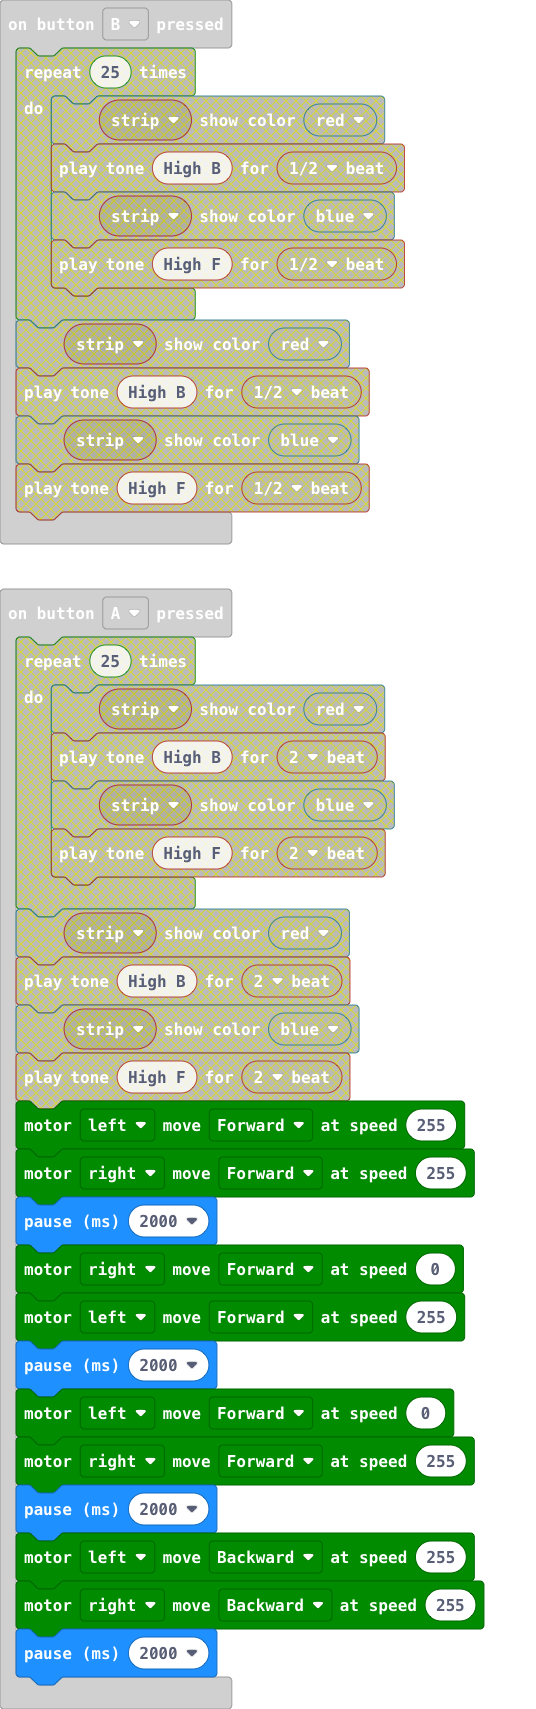
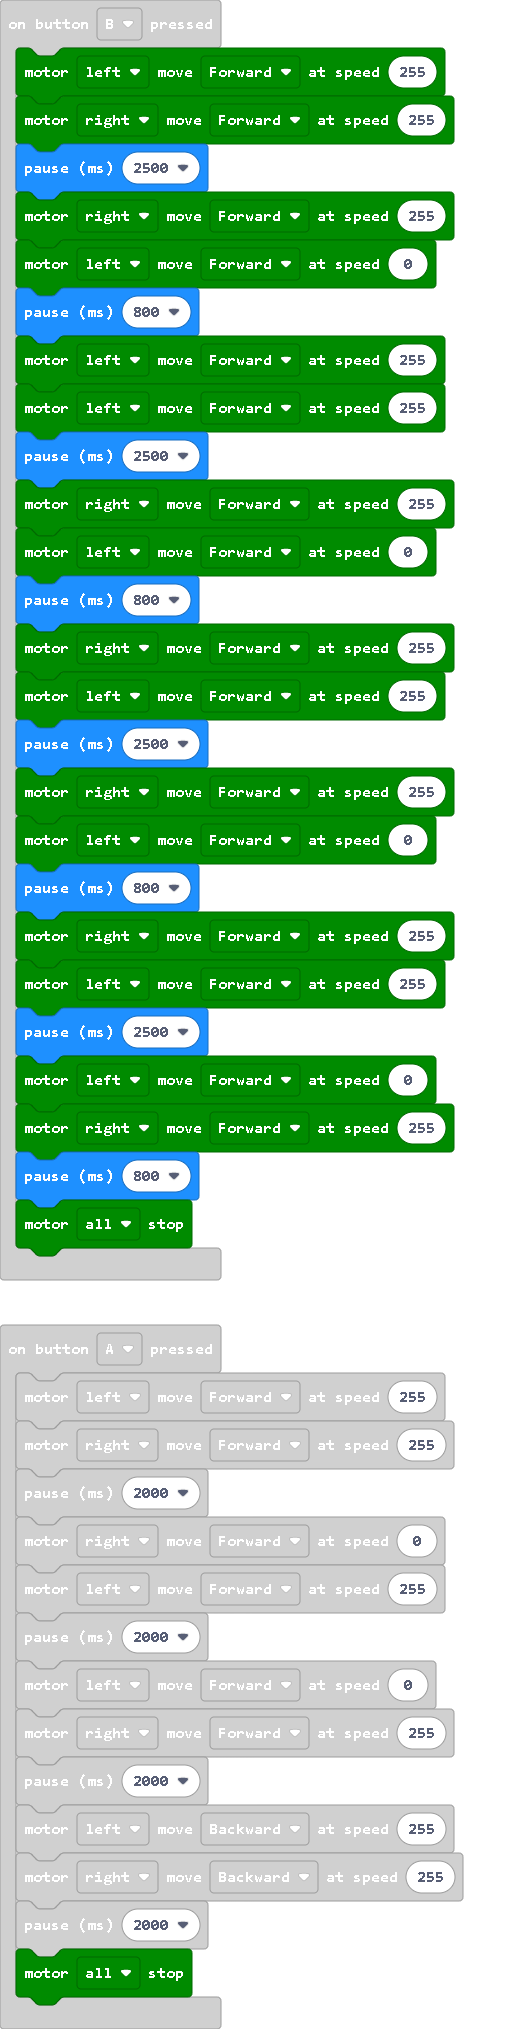
Update main.blocks, main.ts

diff --git a/main.ts b/main.ts
@@ -11,9 +11,34 @@ input.onButtonPressed(Button.A, function () {
     maqueen.motorRun(maqueen.Motors.M1, maqueen.Dir.CCW, 255)
     maqueen.motorRun(maqueen.Motors.M2, maqueen.Dir.CCW, 255)
     basic.pause(2000)
+    maqueen.motorStop(maqueen.Motors.All)
 })
 input.onButtonPressed(Button.B, function () {
-	
+    maqueen.motorRun(maqueen.Motors.M1, maqueen.Dir.CW, 255)
+    maqueen.motorRun(maqueen.Motors.M2, maqueen.Dir.CW, 255)
+    basic.pause(2500)
+    maqueen.motorRun(maqueen.Motors.M2, maqueen.Dir.CW, 255)
+    maqueen.motorRun(maqueen.Motors.M1, maqueen.Dir.CW, 0)
+    basic.pause(800)
+    maqueen.motorRun(maqueen.Motors.M1, maqueen.Dir.CW, 255)
+    maqueen.motorRun(maqueen.Motors.M1, maqueen.Dir.CW, 255)
+    basic.pause(2500)
+    maqueen.motorRun(maqueen.Motors.M2, maqueen.Dir.CW, 255)
+    maqueen.motorRun(maqueen.Motors.M1, maqueen.Dir.CW, 0)
+    basic.pause(800)
+    maqueen.motorRun(maqueen.Motors.M2, maqueen.Dir.CW, 255)
+    maqueen.motorRun(maqueen.Motors.M1, maqueen.Dir.CW, 255)
+    basic.pause(2500)
+    maqueen.motorRun(maqueen.Motors.M2, maqueen.Dir.CW, 255)
+    maqueen.motorRun(maqueen.Motors.M1, maqueen.Dir.CW, 0)
+    basic.pause(800)
+    maqueen.motorRun(maqueen.Motors.M2, maqueen.Dir.CW, 255)
+    maqueen.motorRun(maqueen.Motors.M1, maqueen.Dir.CW, 255)
+    basic.pause(2500)
+    maqueen.motorRun(maqueen.Motors.M1, maqueen.Dir.CW, 0)
+    maqueen.motorRun(maqueen.Motors.M2, maqueen.Dir.CW, 255)
+    basic.pause(800)
+    maqueen.motorStop(maqueen.Motors.All)
 })
 let strip = neopixel.create(DigitalPin.P15, 25, NeoPixelMode.RGB)
 basic.showString("Juan")
